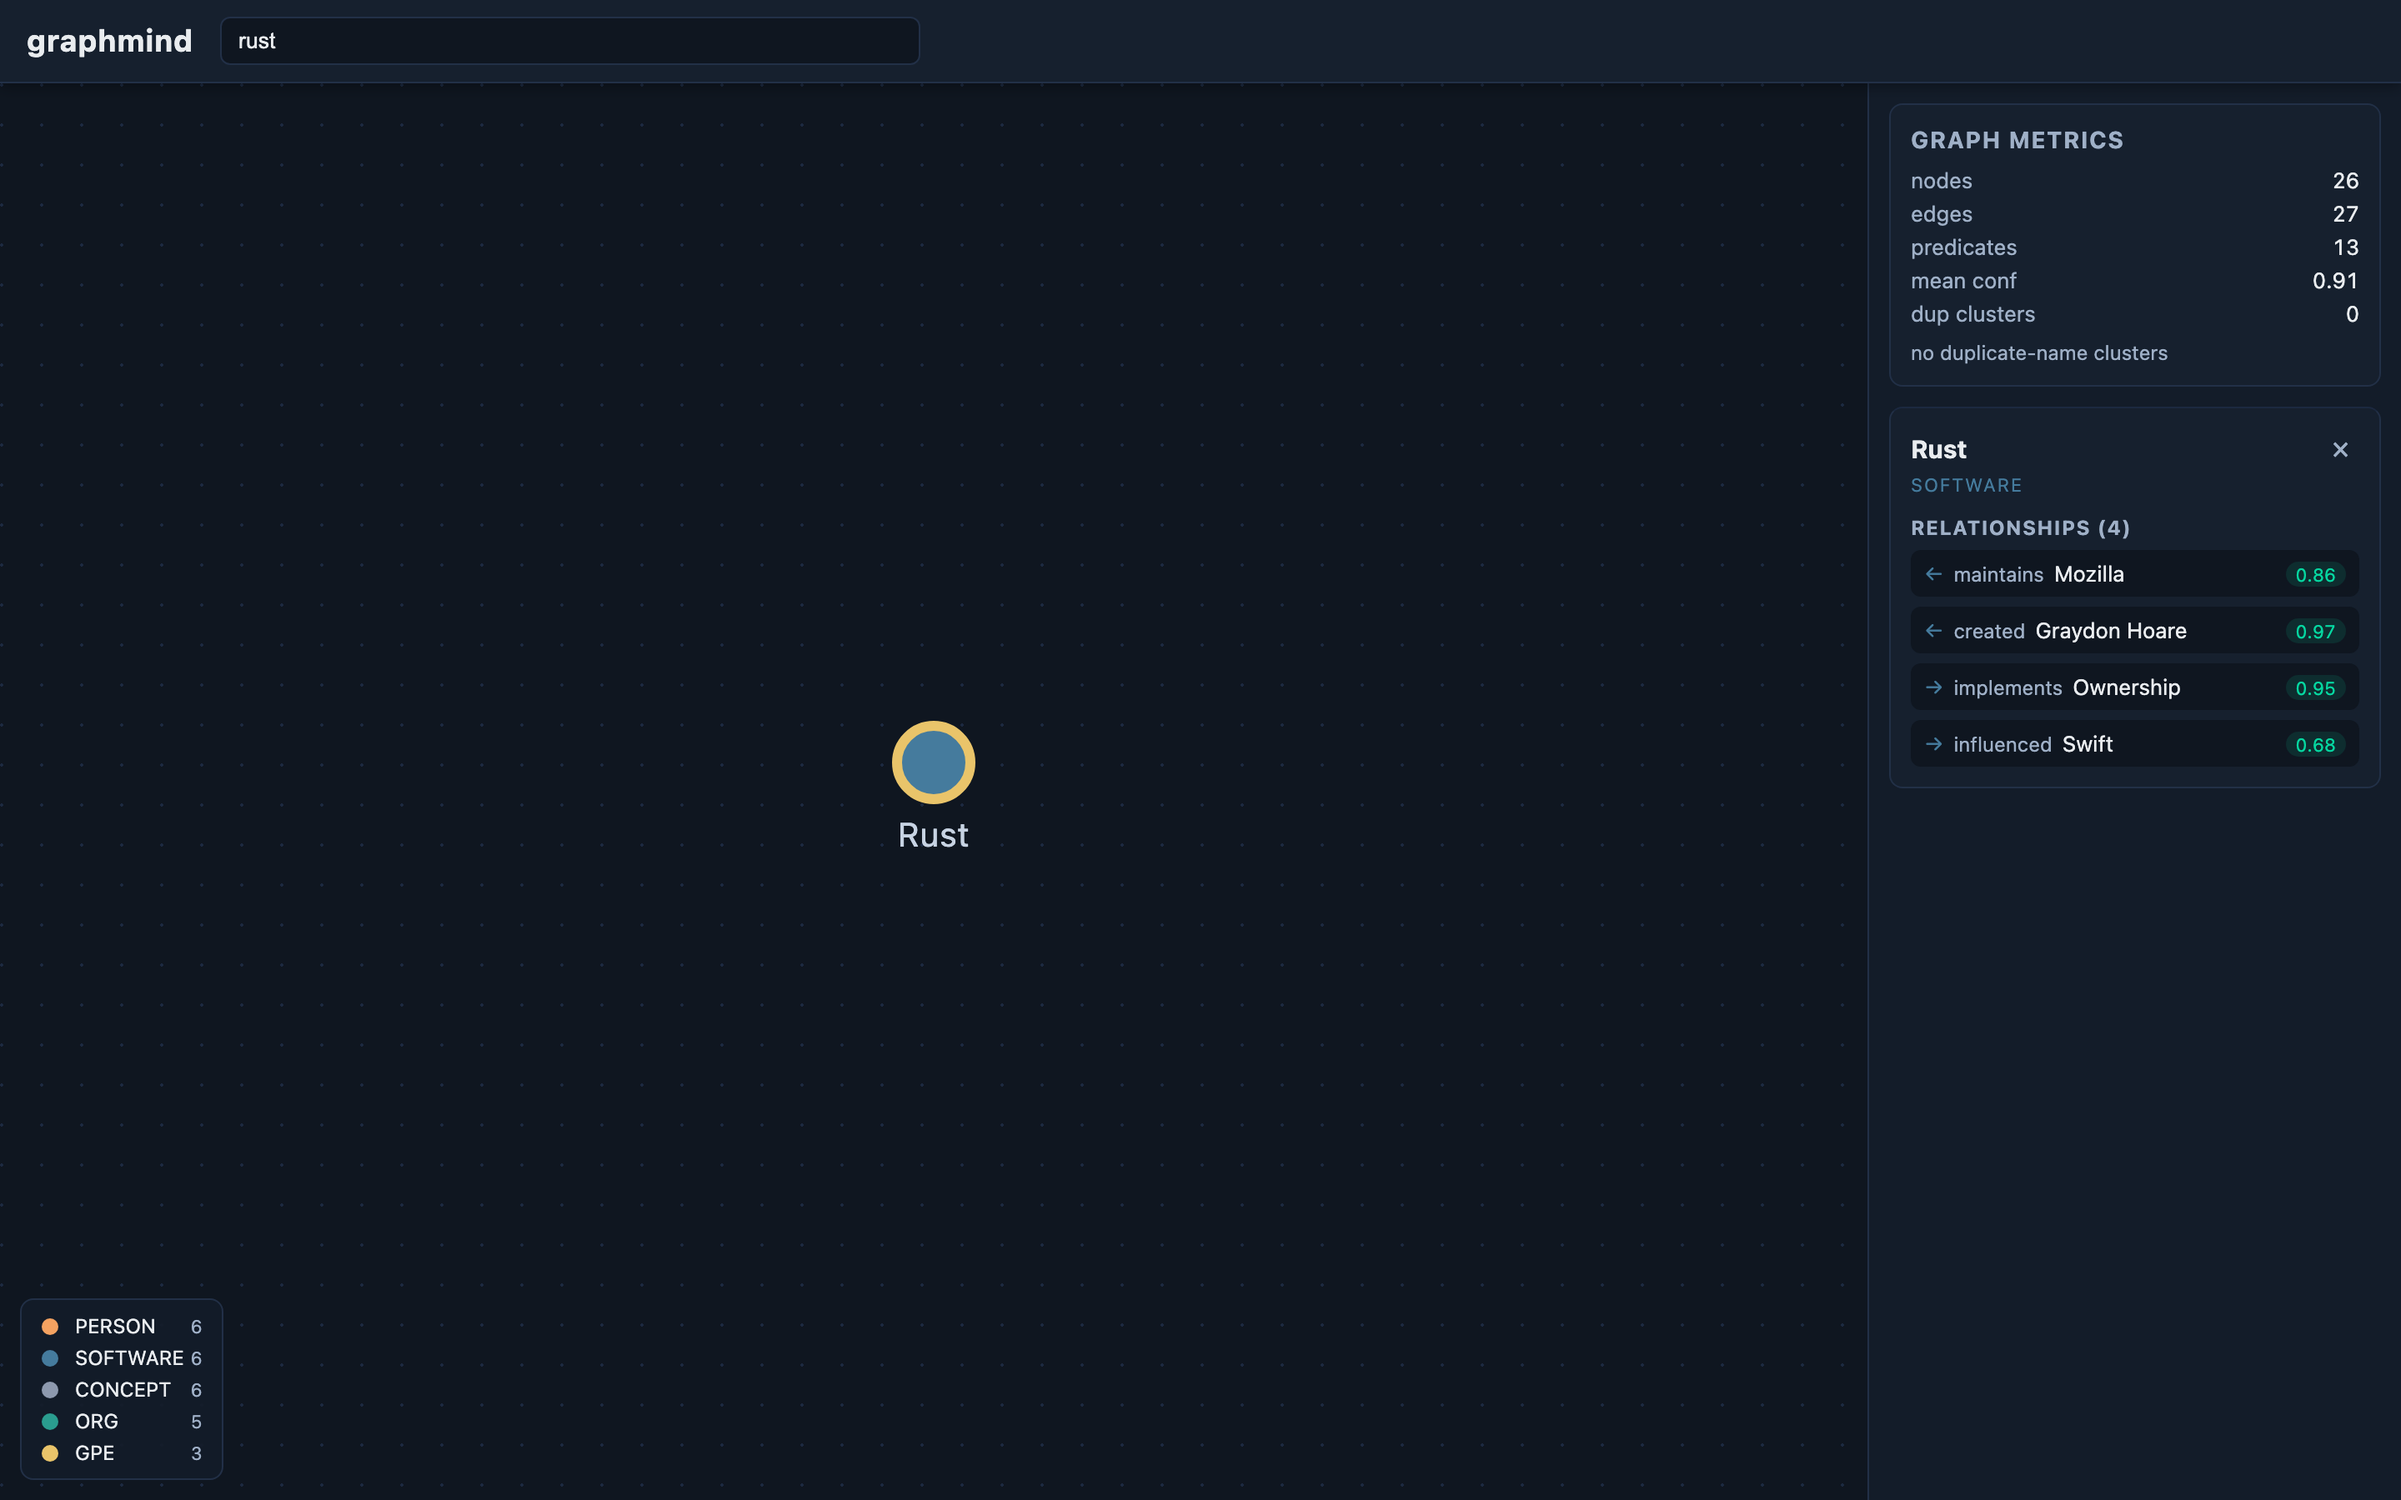
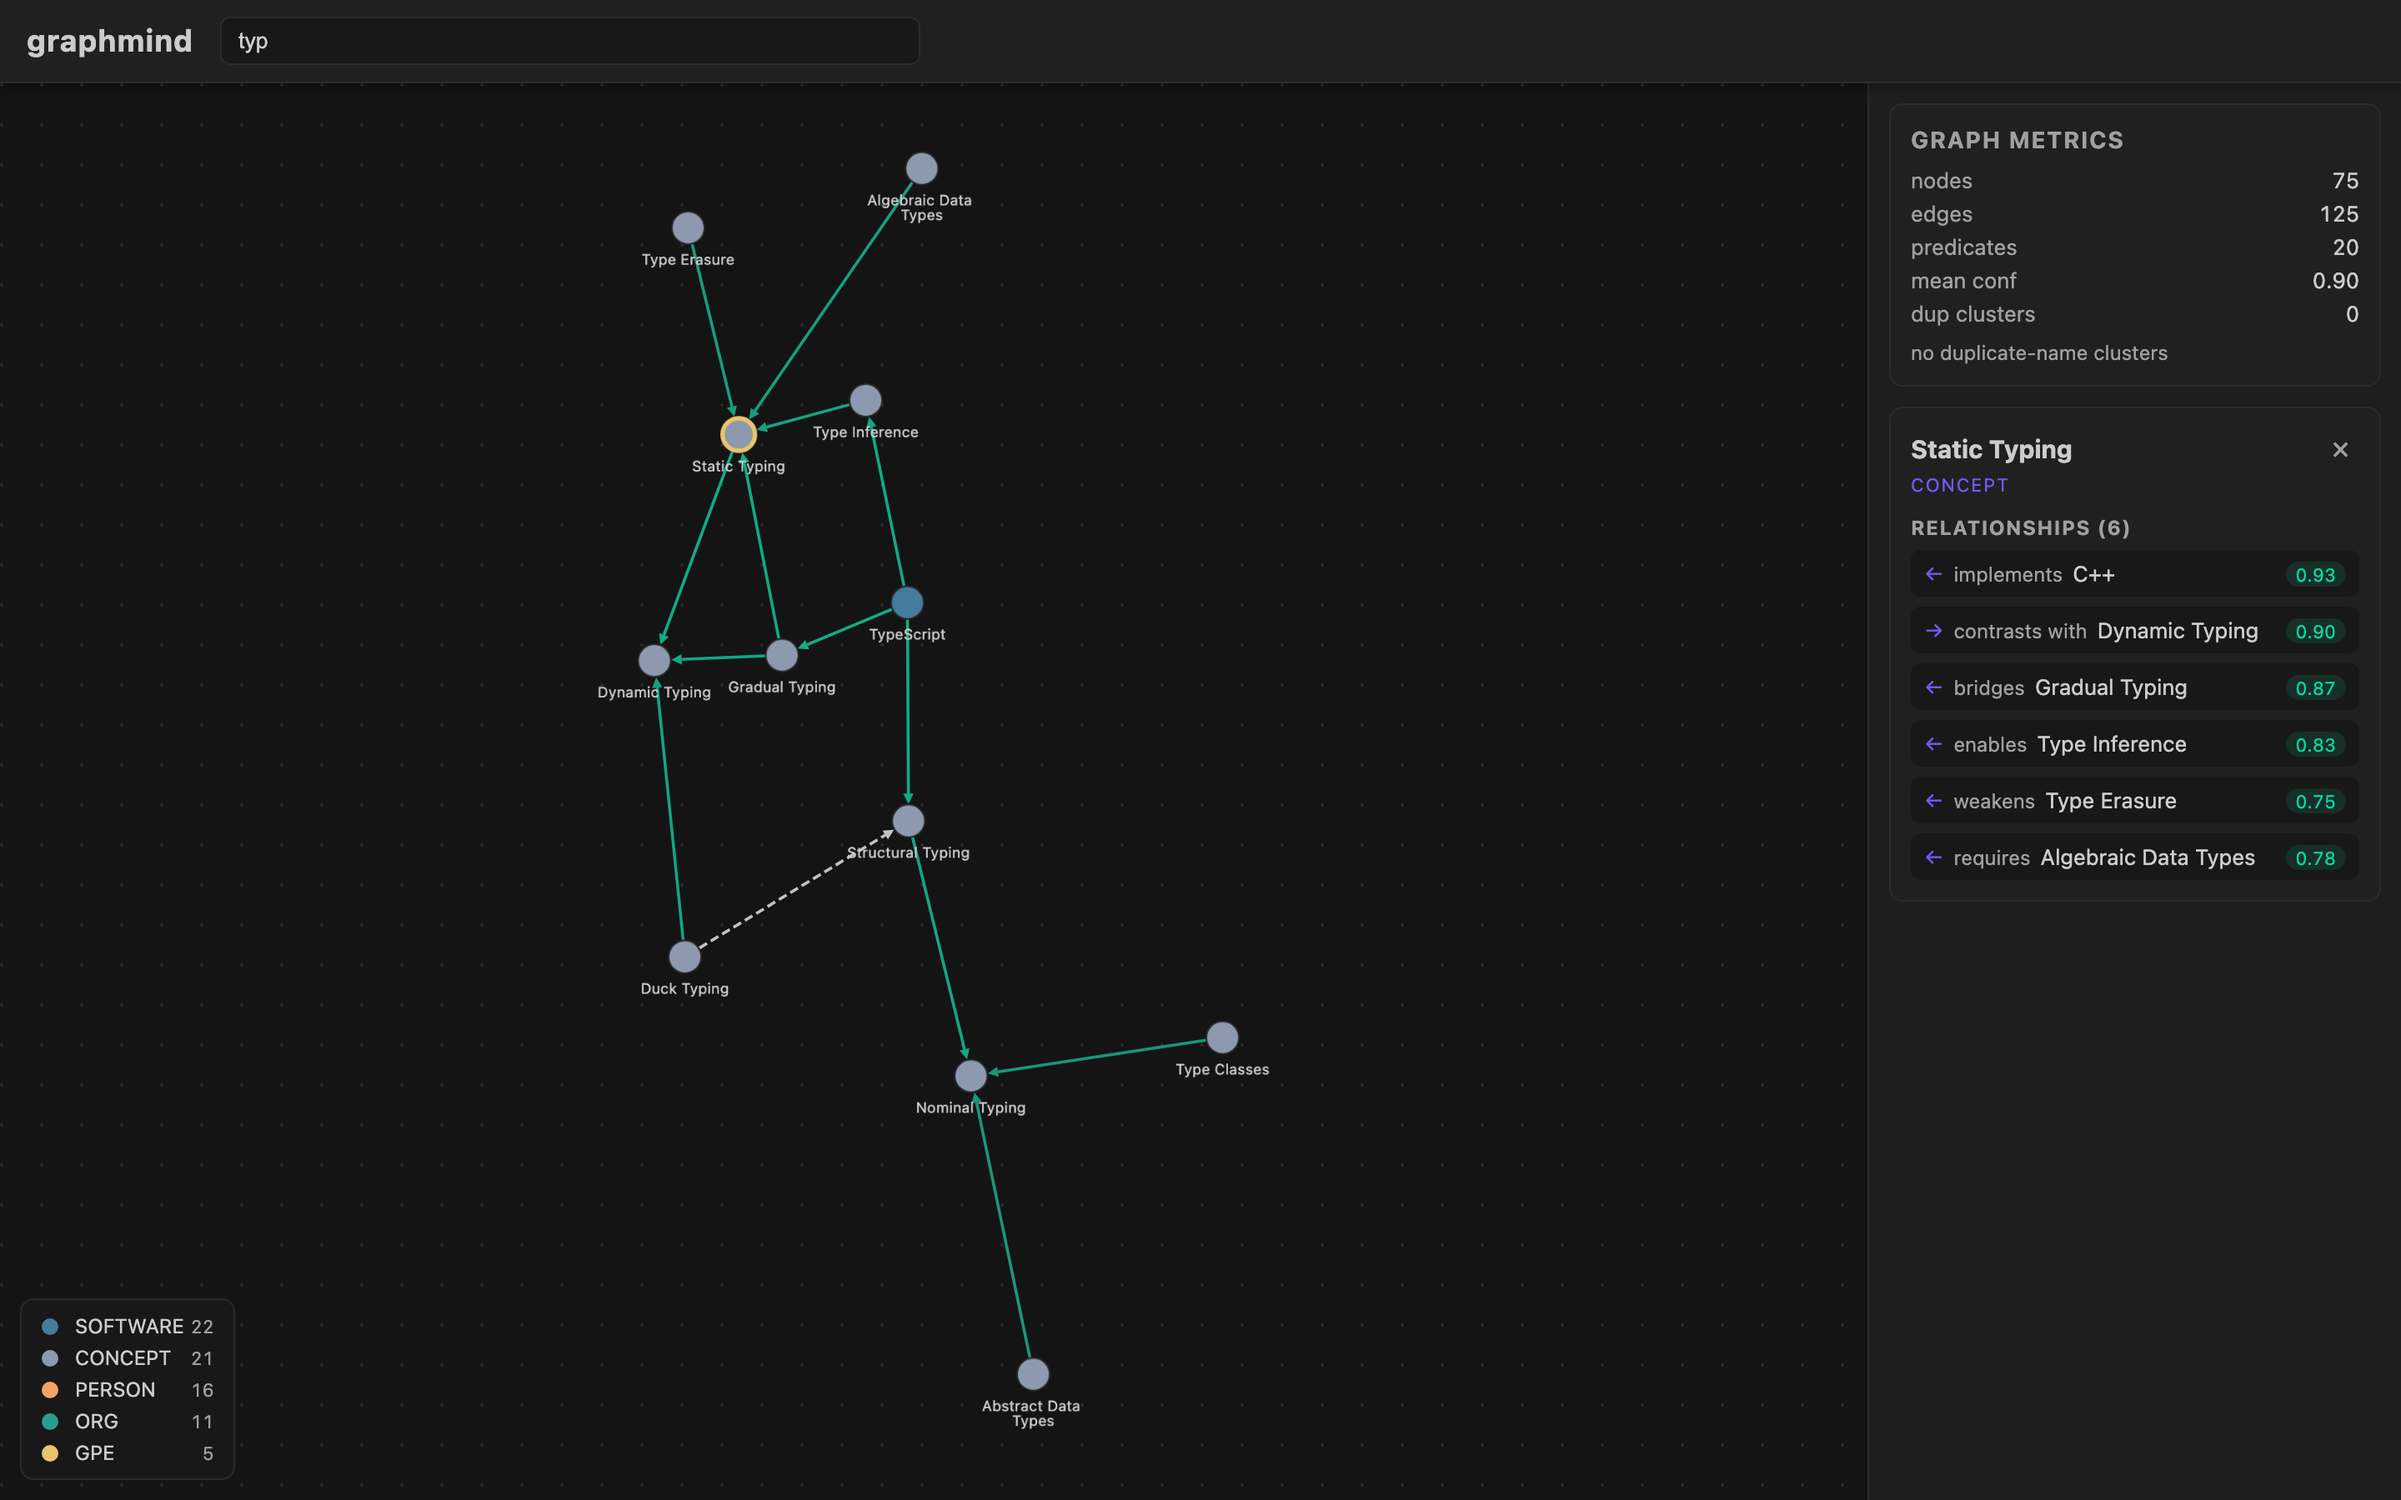
docs: lead with the badges and recapture the viewer
Drops the tagline under the wordmark in favour of the build and licence
badges, states what graphmind is in one paragraph, and replaces the media
with the dense graph on the new palette.

diff --git a/README.md b/README.md
@@ -2,26 +2,27 @@
 
 <img src="docs/media/wordmark.png" alt="graphmind" width="620" />
 
-Reads a folder of plain text, extracts subject–predicate–object triples, resolves
-duplicate entities, infers the bridges between disconnected clusters, loads it all
-into Neo4j, and lets you explore the result.
-
 [![ci](https://github.com/abj360/graphmind/actions/workflows/ci.yml/badge.svg)](https://github.com/abj360/graphmind/actions/workflows/ci.yml)
 [![python](https://img.shields.io/badge/python-3.12+-6f5cf0)](pyproject.toml)
 [![node](https://img.shields.io/badge/node-22-6f5cf0)](api/package.json)
 [![license](https://img.shields.io/badge/license-MIT-6f5cf0)](LICENSE.md)
 
-<br />
-
-<img src="docs/media/viewer-demo.gif" alt="Selecting an entity in the graphmind viewer, then filtering the graph by name" width="900" />
-
 </div>
 
-graphmind turns a directory of plain text files into a browsable property graph
-in Neo4j, with provenance and confidence scores on every edge, embedding-based
-entity deduplication, incremental CDC ingestion that keeps the graph fresh
-without full rebuilds, an Express BFF, and a React + Cytoscape.js viewer for
-interactive exploration.
+graphmind is a knowledge-graph pipeline that turns a directory of plain text into
+a queryable property graph in Neo4j. It chunks each document, extracts
+subject–predicate–object triples with an LLM, collapses duplicate entities by
+embedding similarity, infers the bridging relationships between otherwise
+disconnected clusters, and writes the result as idempotent upserts carrying
+provenance and a confidence score on every edge. CDC polling keeps the graph
+current without a full rebuild, and an Express BFF and React + Cytoscape.js
+viewer make it explorable.
+
+<div align="center">
+
+<img src="docs/media/viewer-demo.gif" alt="Selecting an entity in the graphmind viewer, then filtering the graph by name" width="940" />
+
+</div>
 
 > **Headline metric:** incremental CDC ingestion with upsert-only writes cut
 > graph rebuild time from ~40 minutes (full pipeline re-run) to under 3 minutes
